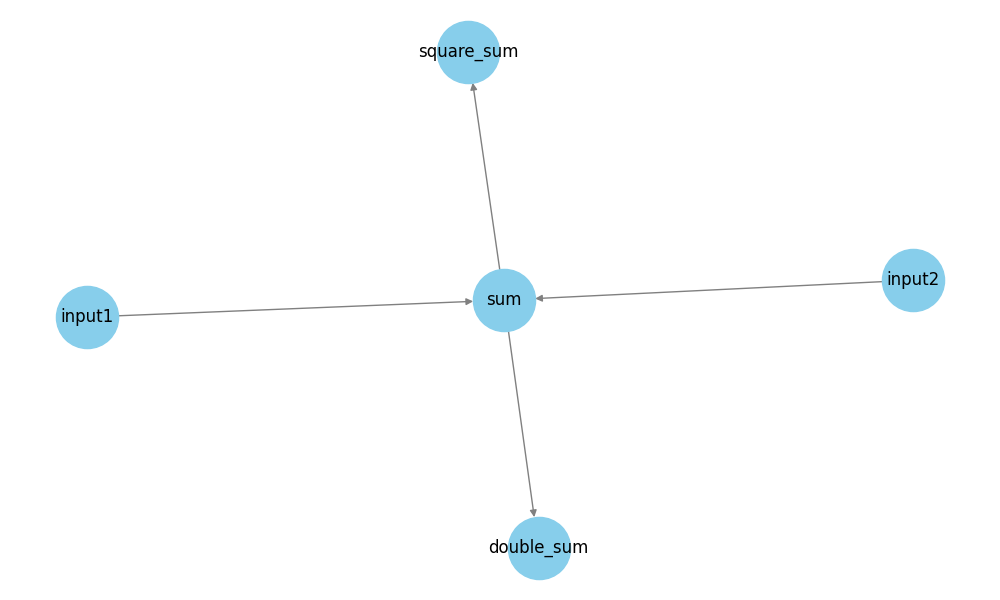
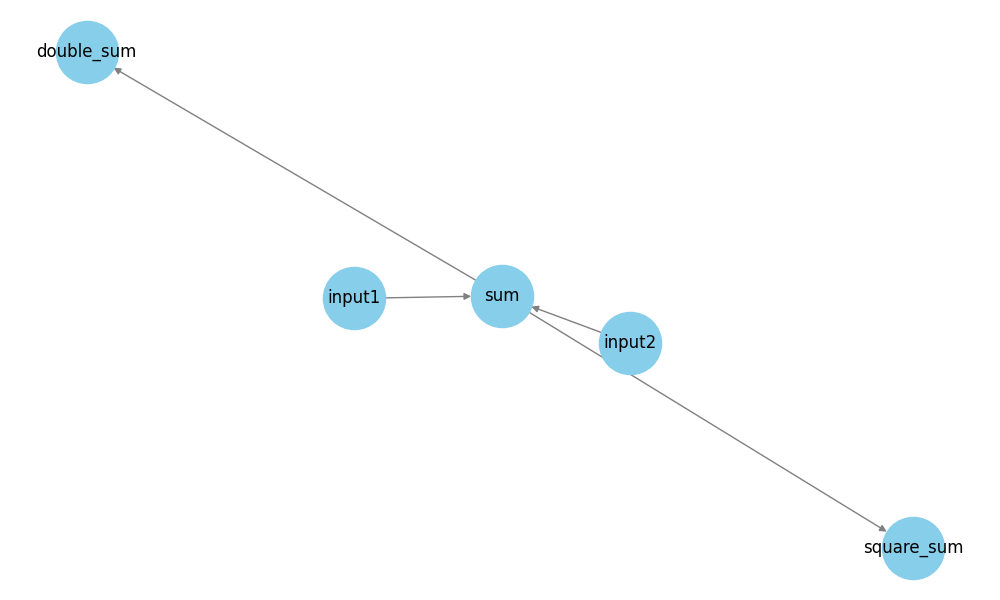
Tried D3.js for visualization

diff --git a/visualize_dag_d3dag.html b/visualize_dag_d3dag.html
@@ -1,0 +1,172 @@
+<!DOCTYPE html>
+<html lang="en">
+
+<head>
+    <meta charset="UTF-8">
+    <title>Flowpipe DAG Viewer (d3-dag)</title>
+    <script src="https://cdn.jsdelivr.net/npm/d3@7"></script>
+    <script src="https://cdn.jsdelivr.net/npm/d3-dag@0.7"></script>
+    <style>
+        svg {
+            width: 100%;
+            height: 600px;
+            border: 1px solid #ccc;
+            background: #fdfdfd;
+        }
+
+        .node rect {
+            fill: lightblue;
+            stroke: #333;
+            rx: 5;
+        }
+
+        .link {
+            stroke: #888;
+            stroke-width: 2px;
+            fill: none;
+        }
+
+        button {
+            margin: 10px;
+            padding: 5px 10px;
+            font-size: 14px;
+        }
+    </style>
+</head>
+
+<body>
+    <h2>Flowpipe DAG Viewer (d3-dag)</h2>
+    <button onclick="downloadSVG()">Download as SVG</button>
+    <svg></svg>
+
+    <script>
+        fetch("example_dag.json")
+            .then(res => res.json())
+            .then(data => {
+                const { nodes, links } = data;
+
+                const childToParents = {};
+                nodes.forEach(n => childToParents[n.id] = []);
+                links.forEach(link => {
+                    if (!childToParents[link.target]) {
+                        childToParents[link.target] = [];
+                    }
+                    childToParents[link.target].push(link.source);
+                });
+
+                const stratifyData = Object.entries(childToParents).map(([id, parentIds]) => ({ id, parentIds }));
+                const dag = d3.dagStratify()(stratifyData);
+                const layout = d3.sugiyama();
+                layout(dag);
+
+                const svg = d3.select("svg");
+                const g = svg.append("g");
+
+                // Enable zoom and pan
+                svg.call(d3.zoom().on("zoom", (event) => {
+                    g.attr("transform", event.transform);
+                }));
+
+                // Position map for updates
+                const pos = new Map();
+
+                // Initial positions
+                dag.descendants().forEach(d => {
+                    pos.set(d.data.id, { x: d.x * 150, y: d.y * 150 });
+                });
+
+                // Draw links
+                const linkLines = g.selectAll("line.link")
+                    .data(dag.links())
+                    .enter()
+                    .append("line")
+                    .attr("class", "link")
+                    .attr("stroke", "#888")
+                    .attr("stroke-width", 2);
+
+                // Draw nodes
+                const node = g.selectAll("g.node")
+                    .data(dag.descendants())
+                    .enter()
+                    .append("g")
+                    .attr("class", "node")
+                    .attr("transform", d => {
+                        const p = pos.get(d.data.id);
+                        return `translate(${p.x},${p.y})`;
+                    })
+                    .call(d3.drag()
+                        .on("start", () => d3.select(document.body).style("cursor", "grabbing"))
+                        .on("end", () => d3.select(document.body).style("cursor", "default"))
+                        .on("drag", function (event, d) {
+                            const newX = event.x;
+                            const newY = event.y;
+                            pos.set(d.data.id, { x: newX, y: newY });
+                            d3.select(this).attr("transform", `translate(${newX},${newY})`);
+                            updateLinks();
+                        }));
+
+                node.append("rect")
+                    .attr("x", -40)
+                    .attr("y", -20)
+                    .attr("width", 80)
+                    .attr("height", 40);
+
+                node.append("text")
+                    .text(d => d.data.id)
+                    .attr("text-anchor", "middle")
+                    .attr("alignment-baseline", "middle");
+
+                node.append("title")
+                    .text(d => `Node: ${d.data.id}`);
+
+                // Update link positions
+                function updateLinks() {
+                    linkLines
+                        .attr("x1", d => pos.get(d.source.data.id).x)
+                        .attr("y1", d => pos.get(d.source.data.id).y)
+                        .attr("x2", d => pos.get(d.target.data.id).x)
+                        .attr("y2", d => pos.get(d.target.data.id).y);
+                }
+
+                updateLinks(); // initial draw
+            });
+
+        // SVG Download
+        function downloadSVG() {
+            const svgEl = document.querySelector("svg");
+
+            // Clone SVG to avoid modifying what's on screen
+            const clone = svgEl.cloneNode(true);
+
+            // Get width and height from viewBox or fallback
+            const viewBox = svgEl.getAttribute("viewBox") || "0 0 1000 800";
+            const [minX, minY, width, height] = viewBox.split(" ").map(Number);
+
+            // Create a white background rect
+            const bg = document.createElementNS("http://www.w3.org/2000/svg", "rect");
+            bg.setAttribute("x", minX);
+            bg.setAttribute("y", minY);
+            bg.setAttribute("width", width);
+            bg.setAttribute("height", height);
+            bg.setAttribute("fill", "white");
+
+            // Insert background as first child
+            clone.insertBefore(bg, clone.firstChild);
+
+            // Serialize and download
+            const serializer = new XMLSerializer();
+            const source = serializer.serializeToString(clone);
+            const blob = new Blob([source], { type: "image/svg+xml;charset=utf-8" });
+            const url = URL.createObjectURL(blob);
+
+            const link = document.createElement("a");
+            link.href = url;
+            link.download = "flowpipe_dag.svg";
+            link.click();
+            URL.revokeObjectURL(url);
+        }
+    </script>
+
+</body>
+
+</html>

diff --git a/flowpipe/visualizer.py b/flowpipe/visualizer.py
@@ -1,4 +1,5 @@
 from .pipeline import PipeLine
+import json 
 
 def visualize_pipeline(pipeline: PipeLine, output_file: str = None, view: bool = True, engine: str = "graphviz"): # type: ignore
     """
@@ -57,3 +58,30 @@ def _visualize_with_networkx(pipeline: PipeLine, output_file: str, view: bool):
     if view:
         plt.show()
     plt.close()
+
+def export_PipeLine_as_JSON(pipeline : PipeLine, output_file : str = None) -> dict: # type: ignore
+    """
+    Exports pipeline DAG as a D3-compatible JSON structure.
+
+    Args:
+        pipeline (PipeLine): Pipeline instance.
+        output_file (str, optional):  If provided, saves JSON to file. Defaults to None.
+
+    Returns:
+        dict:  Dictionary with 'nodes' and 'links'.
+    """
+    
+    data  = {
+        "nodes": [],
+        "links": []
+    }
+    
+    for name, node in pipeline.nodes.items():
+        data['nodes'].append({'id':name})
+        for dep in node.dependencies:
+            data['links'].append({'source':dep, 'target': name})
+    if output_file:
+        with open(output_file, 'w') as f:
+            json.dump(data, f, indent = 2)
+        print(f"[flowpipe] DAG exported as D3 JSON to {output_file}")
+    return data

diff --git a/examples/example_pipeline.py b/examples/example_pipeline.py
@@ -1,6 +1,6 @@
 from flowpipe.pipeline import PipeLine
 from flowpipe.executor import Executor
-from flowpipe.visualizer import visualize_pipeline
+from flowpipe.visualizer import visualize_pipeline, export_PipeLine_as_JSON
 import time
 
 # Step functions
@@ -65,3 +65,5 @@ print(f"Time taken (threaded): {end_threaded - start_threaded:.2f} seconds")
 
 # visualize using networkx and matplotlib
 visualize_pipeline(pipe, output_file="example1_dag.png", engine="networkx", view=True)
+
+export_PipeLine_as_JSON(pipe, output_file="example_dag.json")
